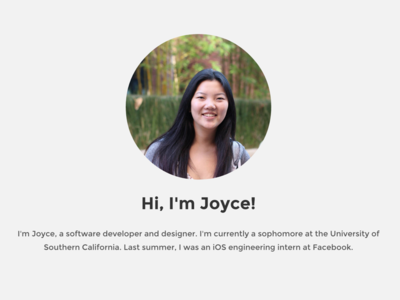
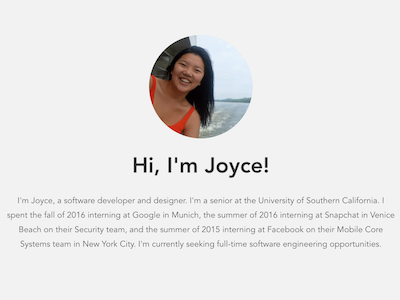
Update index and minor changes

Changed region(s): [[0.3, 0.09, 0.69, 0.6], [0.03, 0.66, 0.99, 0.84]]

diff --git a/index.html b/index.html
@@ -58,7 +58,7 @@
       <div class="container">
       <div class="row">
         <div class="col-lg-8 col-lg-offset-2 centered img-bg">
-          <img class="circular" src="assets/img/JoyceYanHeadshot.png">
+          <img class="circular" src="assets/img/JoyceYan.png">
           <h1>Hi, I'm Joyce!</h1>
           <p>I'm Joyce, a software developer and designer. I'm a senior at the University of Southern California. I spent the fall of 2016 interning at Google in Munich, the summer of 2016 interning at Snapchat in Venice Beach on their Security team, and the summer of 2015 interning at Facebook on their Mobile Core Systems team in New York City. I'm currently seeking full-time software engineering opportunities.</p>
         </div><!-- /col-lg-8 -->
@@ -91,7 +91,7 @@
       </div>
       <div class="col-lg-4">
         <a class="zoom turquoise" href="pizzamates.html"><img class="img-responsive bordered" src="assets/img/portfolio/port05.jpg" alt="" /></a>
-        <p><h4>COMPOSER OR PASTA</h4></p>
+        <p><h4>PIZZAMATES</h4></p>
       </div>
       <div class="col-lg-4">
         <a id="recursion" class="zoom turquoise" href="index.html"><img class="img-responsive" src="assets/img/portfolio/port06.jpg" alt="" /></a>

diff --git a/kindling.html b/kindling.html
@@ -67,16 +67,16 @@
     </div>
 
     <div class="row mt">
-      <div class="col-lg-3">
+      <div class="col-lg-3 centered">
         <img src="assets/img/kindling/kindling1.png">
       </div>
-      <div class="col-lg-3">
+      <div class="col-lg-3 centered">
         <img src="assets/img/kindling/kindling2.png">
       </div>
-      <div class="col-lg-3">
+      <div class="col-lg-3 centered">
         <img src="assets/img/kindling/kindling3.png">
       </div>
-      <div class="col-lg-3">
+      <div class="col-lg-3 centered">
         <img src="assets/img/kindling/kindling4.png">
       </div>
     </div><!-- row -->

diff --git a/signal.html b/signal.html
@@ -70,16 +70,16 @@
     </div>
 
     <div class="row mt">
-      <div class="col-lg-3">
+      <div class="col-lg-3 centered">
         <img src="assets/img/signal/signal1.png">
       </div>
-      <div class="col-lg-3">
+      <div class="col-lg-3 centered">
         <img src="assets/img/signal/signal2.png">
       </div>
-      <div class="col-lg-3">
+      <div class="col-lg-3 centered">
         <img src="assets/img/signal/signal3.png">
       </div>
-      <div class="col-lg-3">
+      <div class="col-lg-3 centered">
         <img src="assets/img/signal/signal4.png">
       </div>
     </div><!-- row -->

diff --git a/bitcash.html b/bitcash.html
@@ -66,13 +66,13 @@
       </div>
     </div>
     <div class="row mt">
-      <div class="col-lg-4 padded-bottom">
+      <div class="col-lg-4 padded-bottom centered">
         <img src="assets/img/bitcash/bitcash1.png">
       </div>
-      <div class="col-lg-4 padded-bottom">
+      <div class="col-lg-4 padded-bottom centered">
         <img src="assets/img/bitcash/bitcash2.png">
       </div>
-      <div class="col-lg-4 padded-bottom">
+      <div class="col-lg-4 padded-bottom centered">
         <img src="assets/img/bitcash/bitcash3.png">
       </div>
     </div><!-- row -->

diff --git a/pizzamates.html b/pizzamates.html
@@ -66,13 +66,13 @@
     </div>
 
   <div class="row mt">
-    <div class="col-lg-4">
+    <div class="col-lg-4 centered">
       <img src="assets/img/pizzamates/pizzamates1.png">
     </div>
-    <div class="col-lg-4">
+    <div class="col-lg-4 centered">
       <img src="assets/img/pizzamates/pizzamates2.png">
     </div>
-    <div class="col-lg-4">
+    <div class="col-lg-4 centered">
       <img src="assets/img/pizzamates/pizzamates3.png">
     </div>
   </div><!-- row -->
